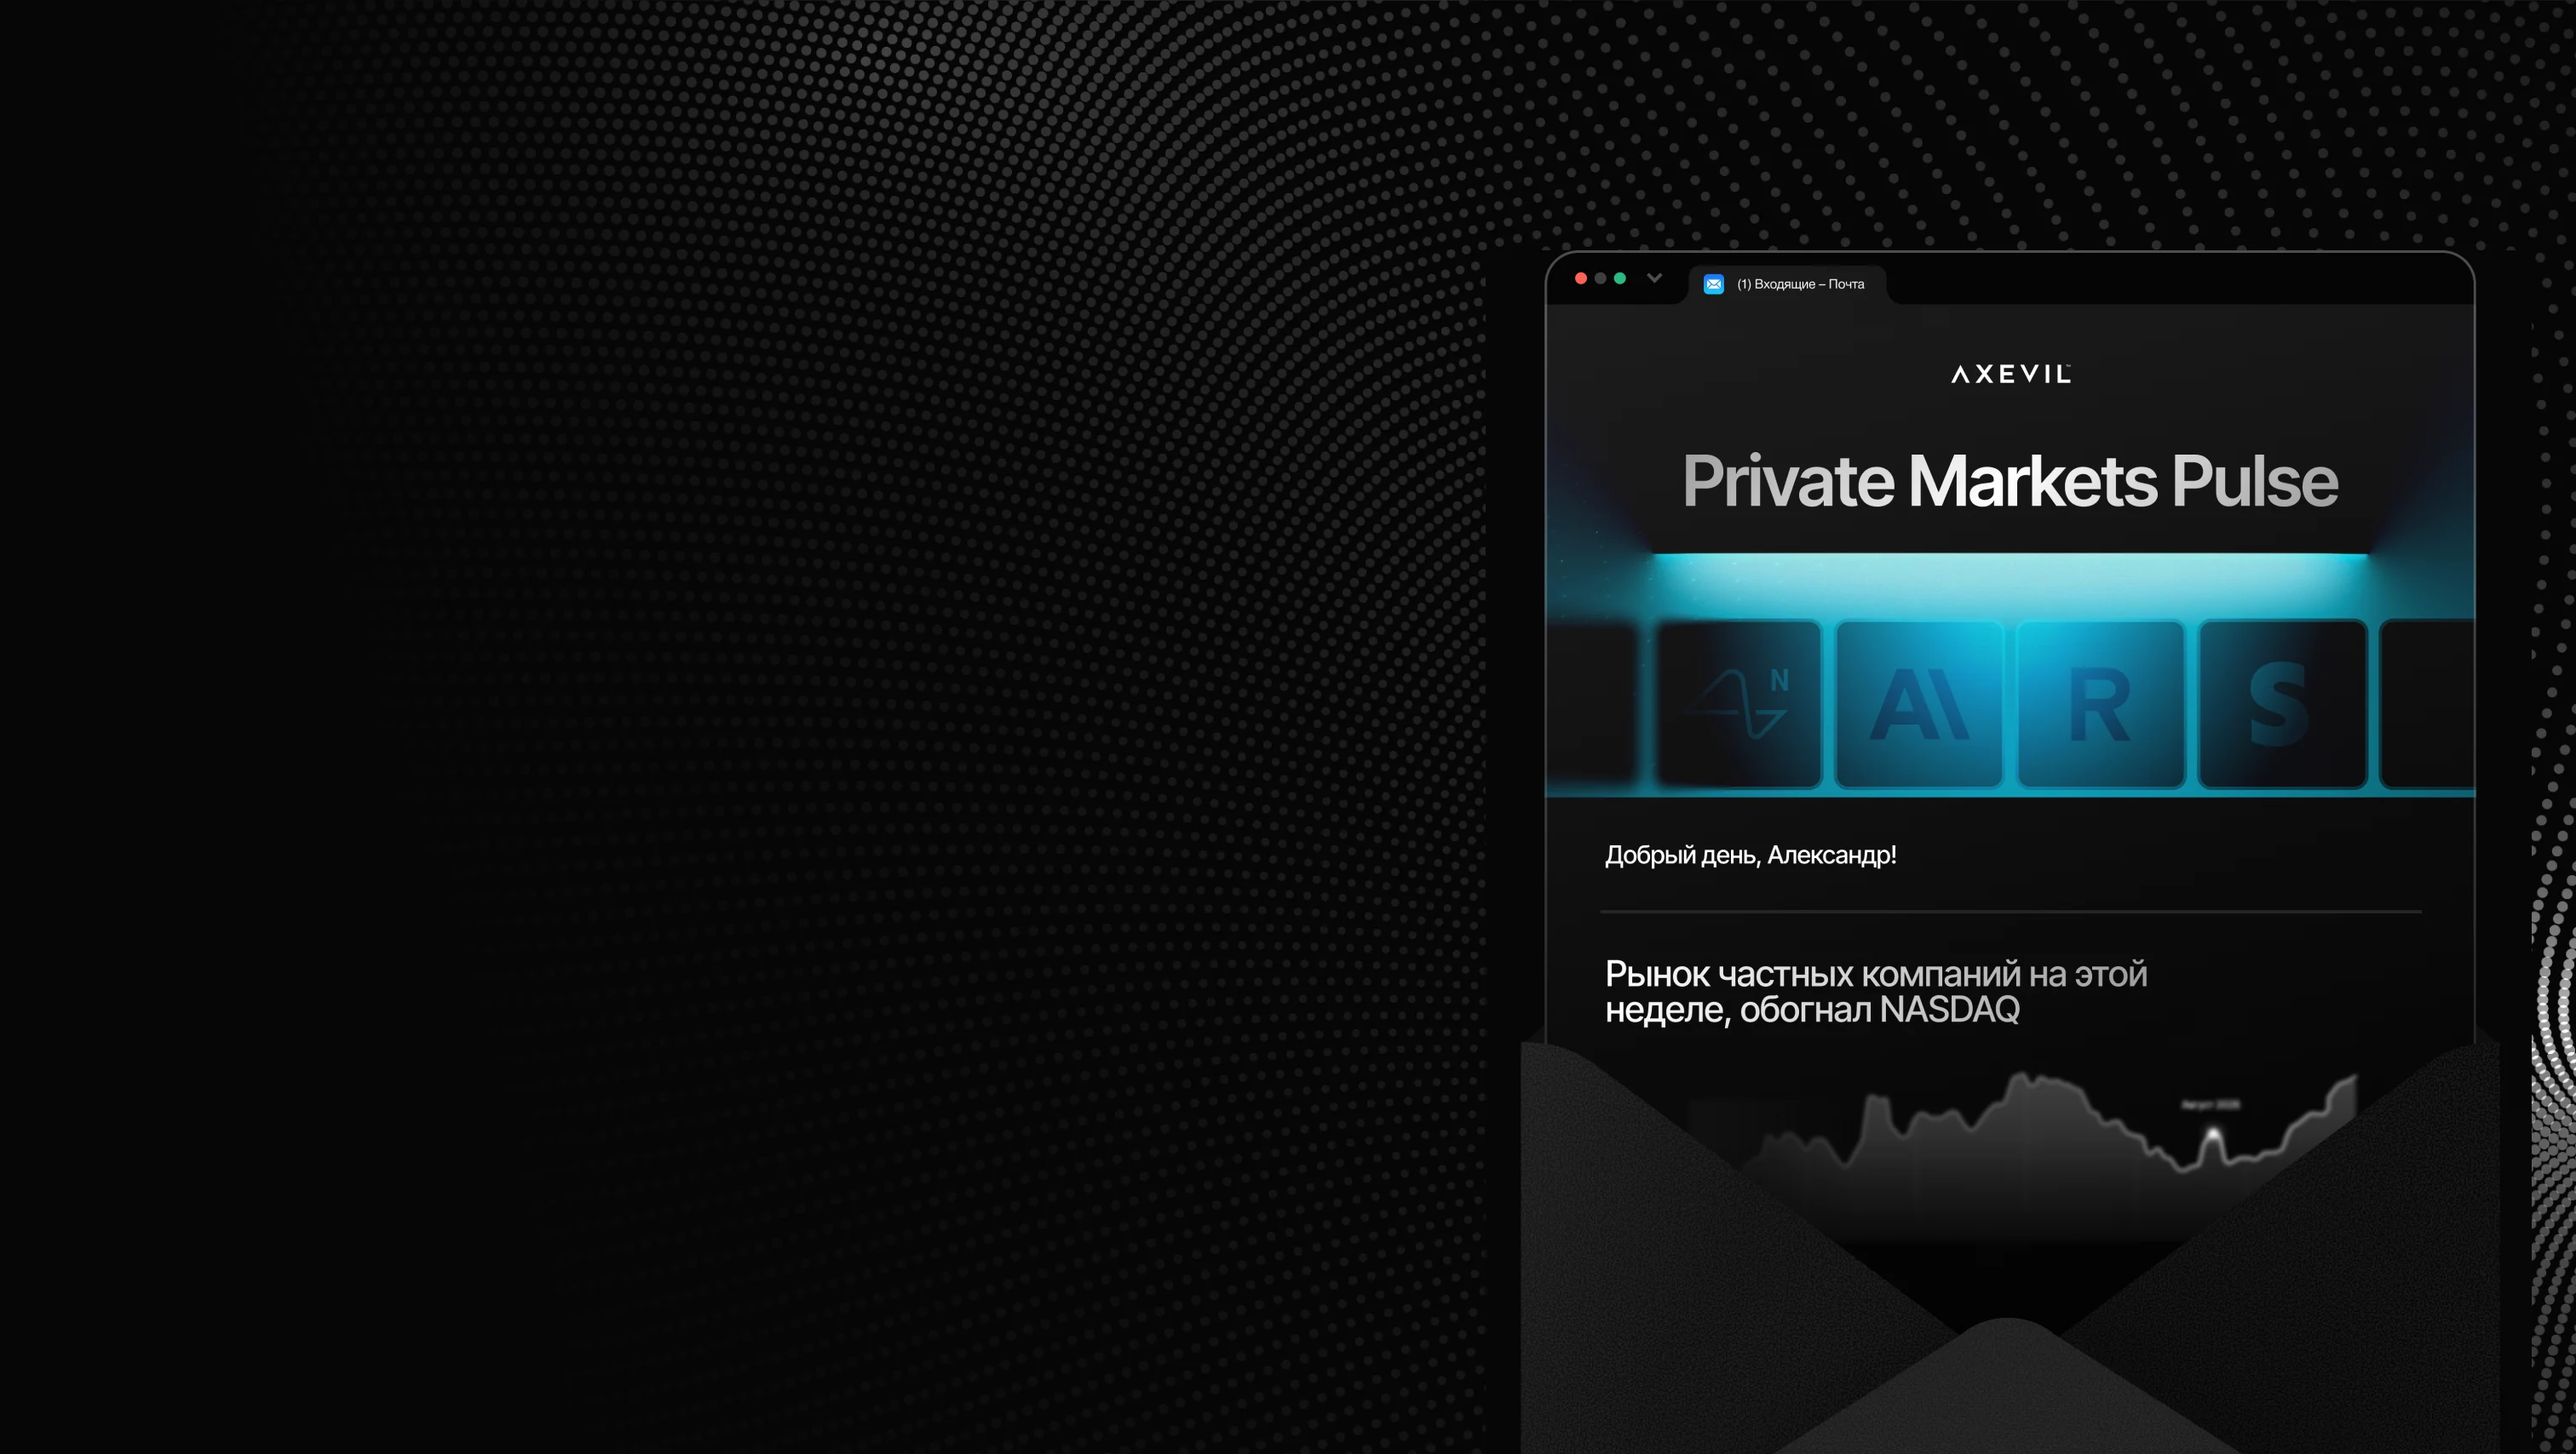
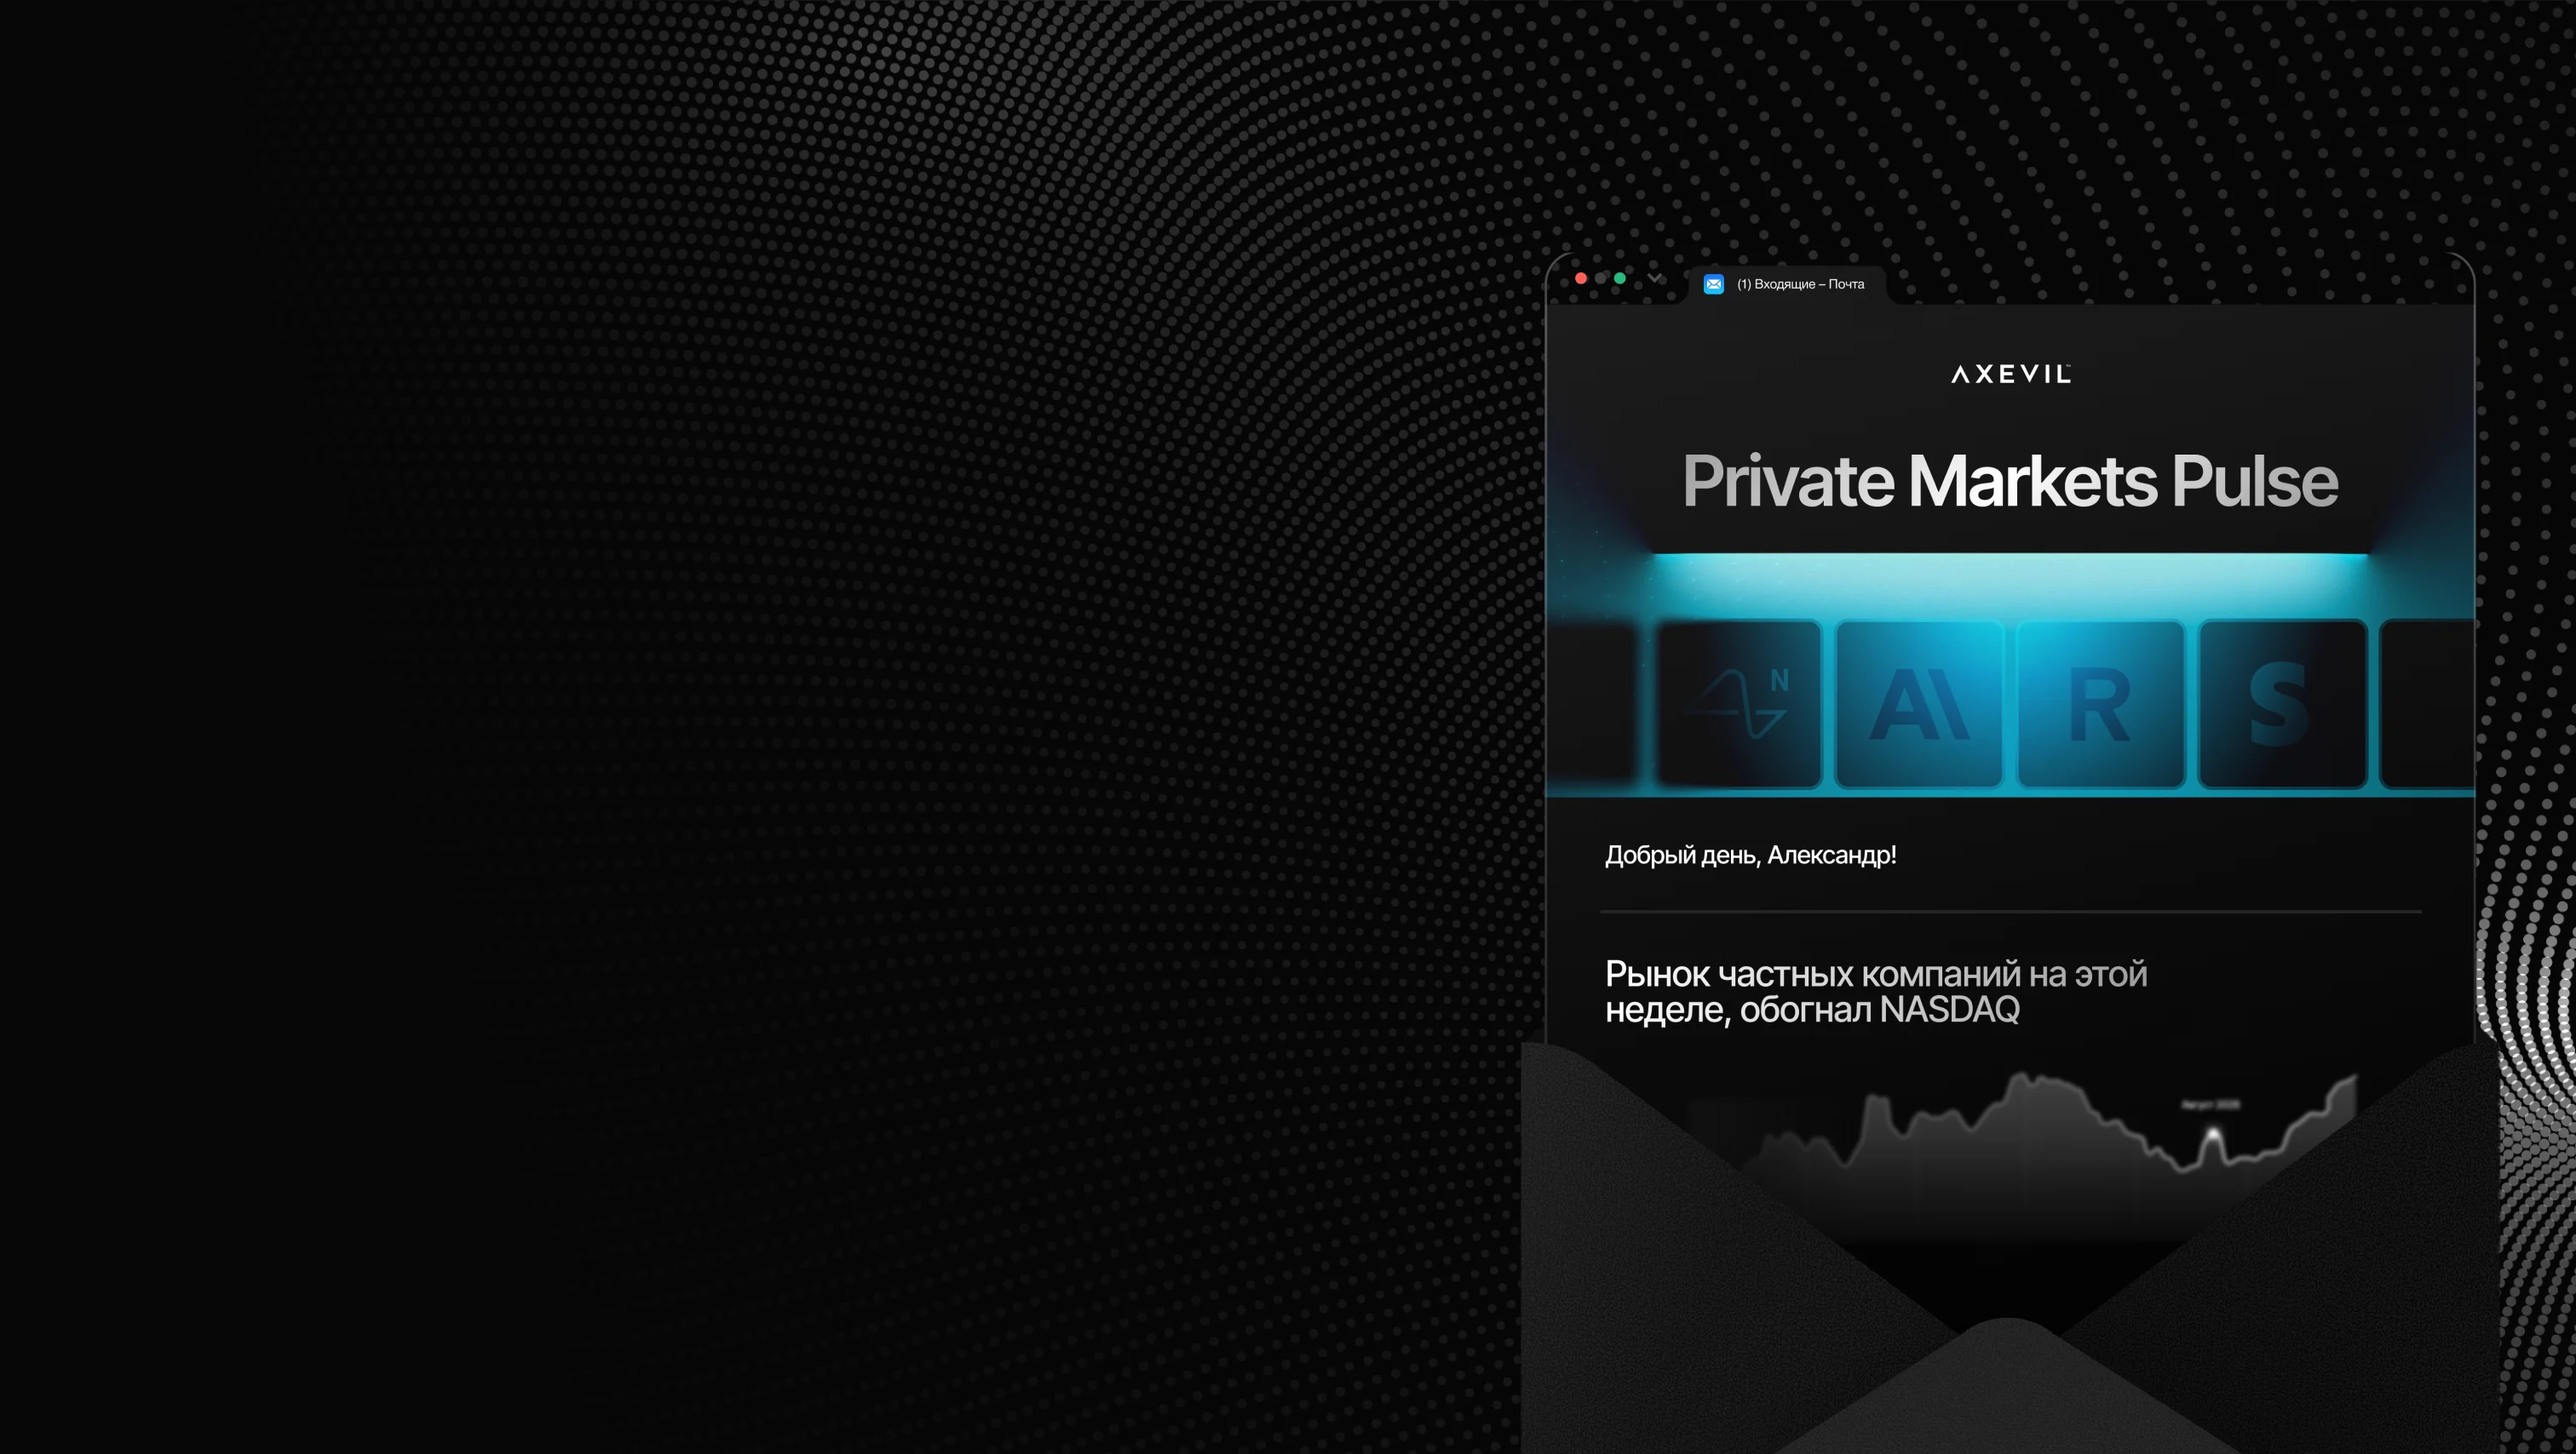
fix(axevil-newsletter): убраны чёрные полосы по краям письма в первом экране
Экспорт иллюстрации из Figma приходит непрозрачным, с плоской подложкой #060606
шириной ~33 px вокруг окна письма. Точечное полотно обрывалось об неё
прямоугольником — это и было видно как полосы по краям (Татьяна, 2026-08-21).
В рендере самой Figma ровно то же самое, так что правка не «возврат к макету»,
а исправление макета.

Подложка снята заливкой от границы кадра — именно заливкой, а не порогом по
цвету: внутри окна есть пиксели такой же яркости, и глобальный порог продырявил
бы письмо. Край размыт на 0.8 px, чтобы не было ступеньки. Заодно ушла светлая
линия в 3 px по верхнему краю экспорта.

На десктопе прозрачная иллюстрация вклеена обратно в фон (положение всё равно
фиксировано макетом, один файл легче двух), на мобильной лежит отдельным слоем.

Границы иллюстрации в геометрии сцены уточнены по видимому содержимому:
левый край 58.995% вместо замера по яркости 59.5%, правый 97.09% вместо
рамки узла 98.28%.

Первый экран: 201 KB десктоп, 114 KB мобильный.

diff --git a/axevil-newsletter/src/pages/nl-sections/NLHero.tsx b/axevil-newsletter/src/pages/nl-sections/NLHero.tsx
@@ -34,9 +34,16 @@ function fadeUp(delay: number) {
  * нижней границе экрана. Поэтому градиенты вынесены в CSS и считаются от реальной высоты
  * первого экрана (см. слой затемнения в разметке).
  *
- * Иллюстрация непрозрачная, со своей тёмной подложкой — отдельным слоем поверх фона её
- * класть нельзя, подложка вырезала бы точки прямоугольником. В макете так и есть, и в
- * склейке получается ровно то же самое.
+ * Экспорт иллюстрации приходит непрозрачным, с плоской подложкой #060606 шириной ~33 px
+ * вокруг окна. В рендере Figma она видна так же, как была видна у нас: точечное полотно
+ * обрывается прямоугольником по краям письма (Татьяна, 2026-08-21: «что за чёрные полоски
+ * по краям письма? убрать»). Подложка снята заливкой от границы кадра — именно заливкой,
+ * а не порогом по цвету: внутри окна есть пиксели такой же яркости, и глобальный порог
+ * продырявил бы письмо. Заодно ушла светлая линия в 3 px по верхнему краю экспорта.
+ *
+ * Слой с прозрачностью нужен только мобильной вёрстке (hero-ill-m.webp); на десктопе он
+ * вклеен в фон, потому что положение мокапа относительно полотна всё равно фиксировано
+ * макетом, а один файл легче двух.
  *
  * Сцена подставляется по правилу object-cover, но сам `object-fit: cover` не годится:
  * от положения мокапа зависит правая граница текстовой колонки, а cover прячет, насколько
@@ -47,18 +54,19 @@ const SCENE_H = 854
 const SCENE_RATIO = SCENE_W / SCENE_H
 
 /**
- * Правый край иллюстрации — доля от кадра (рамка узла 872..1486 из 1512). По нему
- * проверяем, что мокап не уехал за край окна.
+ * Правый край иллюстрации — доля от кадра. По нему проверяем, что мокап не уехал за край
+ * окна. Считается от видимого содержимого, а не от рамки узла (872..1486 из 1512): вокруг
+ * окна в экспорте лежала плоская подложка #060606 шириной ~33 px с каждой стороны, и она
+ * снята — см. комментарий к сцене.
  */
-const ILL_RIGHT = 98.28
+const ILL_RIGHT = 97.09
 
 /**
  * Левая граница видимого мокапа — доля от кадра. Рамка узла начинается с 57.67%, но там
- * ещё тёмная подложка; замер по яркости композиции даёт резкий скачок ровно на 59.5%
- * (средняя яркость столбцов: 12.0 на 58–59%, 15.7 на 59–60%, 28.1 на 60–61%). Именно
- * сюда упирается текстовая колонка.
+ * ещё была тёмная подложка; после её снятия содержимое начинается ровно с 58.995%.
+ * Сюда упирается текстовая колонка.
  */
-const ILL_CONTENT_LEFT = 59.5
+const ILL_CONTENT_LEFT = 58.995
 
 /** Минимальный зазор от правого края окна до иллюстрации, px. */
 const SCENE_MARGIN = 24
@@ -255,7 +263,7 @@ export default function NLHero() {
           <motion.img
             src={heroIllM} alt="" aria-hidden loading="eager"
             className="block w-full pointer-events-none"
-            width={800} height={921}
+            width={820} height={1005}
             initial={{ opacity: 0 }} animate={{ opacity: 1 }}
             transition={{ duration: 0.9, delay: 0.3, ease: [0.4, 0, 0.2, 1] }}
           />
